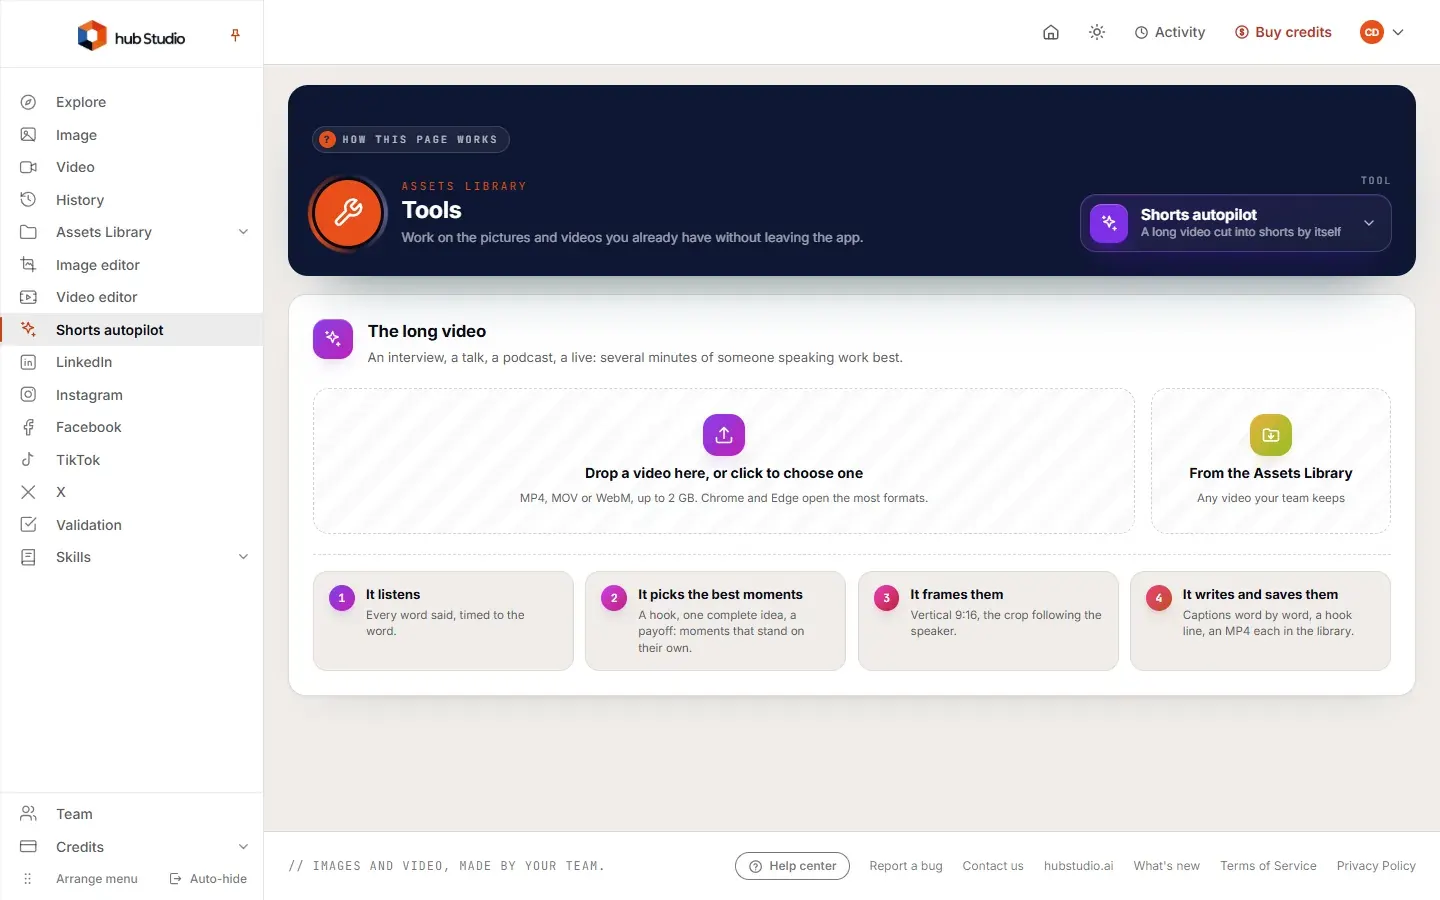
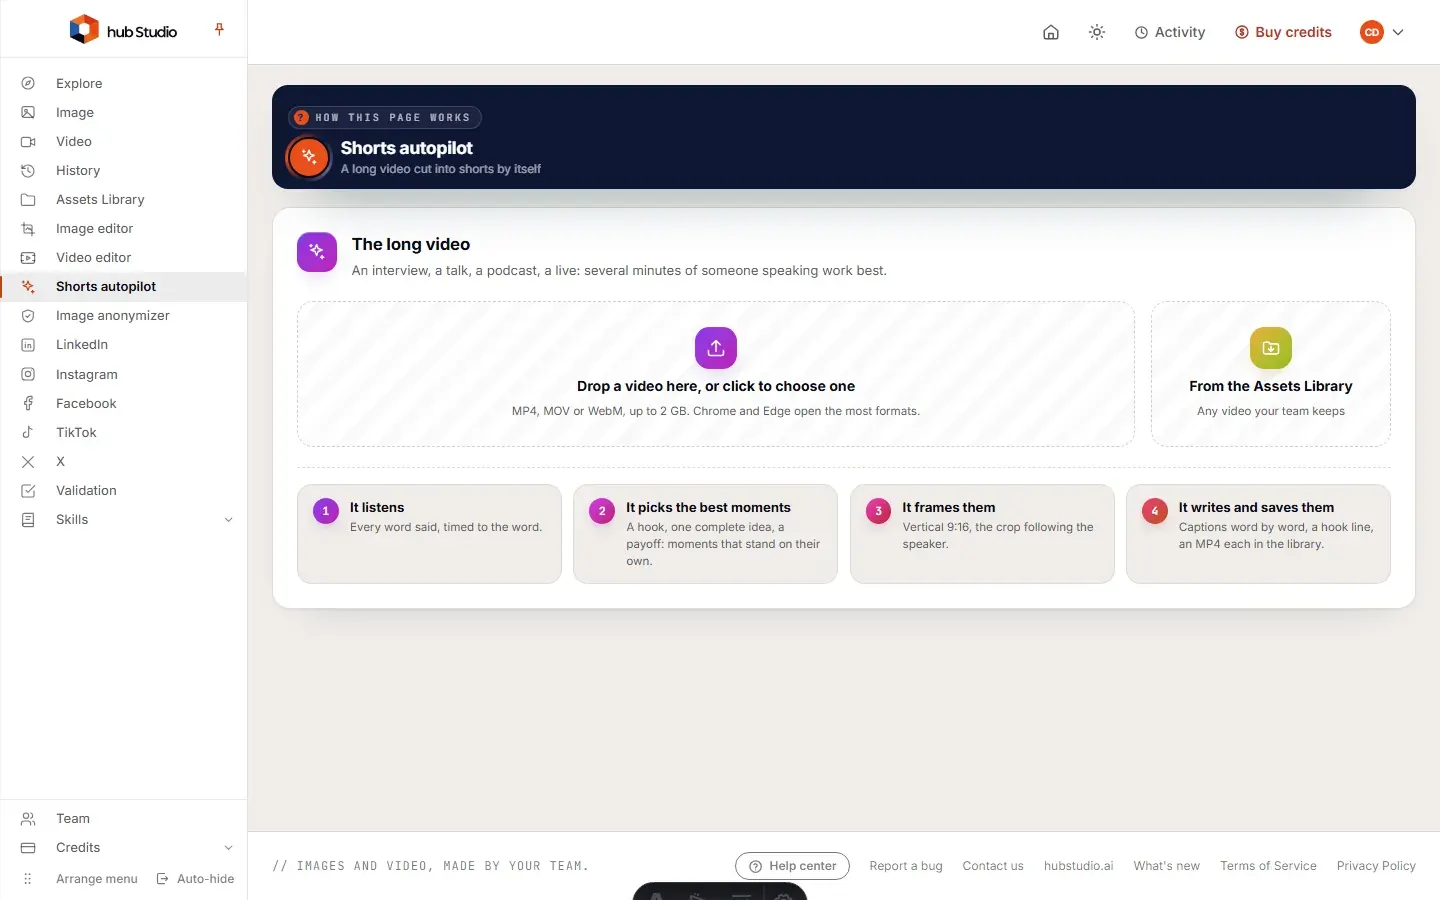
Help: the Image anonymizer is its own menu entry, every tool page is named after its tool (Assets Library, Getting started, index, Shorts autopilot), captures retaken.

diff --git a/src/content/help/assets-library.md b/src/content/help/assets-library.md
@@ -1,11 +1,11 @@
 ---
-title: "Assets Library and its Tools"
+title: "Assets Library and the tools"
 seoTitle: "Assets Library, Image editor, Video editor and Image anonymizer | hubStudio Help"
 description: "Every file of your team in one place, in folders: uploads, renders, edited pictures, edited videos and shorts. Find, tag, move and download them, then work on them with the Image editor (frame a picture for X, Instagram or LinkedIn, crop, adjust, apply a look, write, draw, place a logo), the Video editor (frame a video for Instagram, TikTok or Facebook, trims, speed, texts, captions word by word, music, a cover) and the Image anonymizer."
-excerpt: "Your team's files in folders, and three tools that run in your browser: the Image editor, the Video editor for Reels, TikToks and Facebook reels, and the Image anonymizer."
+excerpt: "Your team's files in folders, and three tools that run in your browser, each with its own entry in the menu: the Image editor, the Video editor for Reels, TikToks and Facebook reels, and the Image anonymizer."
 section: "library"
 order: 6
-updated: 2026-10-01
+updated: 2026-10-02
 appPaths: ["/files", "/files/tools/image-editor", "/files/tools/video-editor", "/files/tools/image-anonymizer"]
 audience: "Everyone except client logins"
 related: ["history", "shorts-autopilot", "create-an-image", "create-a-video", "linkedin", "instagram", "facebook", "tiktok", "x", "balance-and-payments"]
@@ -24,11 +24,10 @@ shots:
     clip: "the list with a video's Actions menu open"
     alt: "The Actions menu of a video in the Assets Library: View, Download, Edit video, Make shorts, Upload a new version, Tags, Rename and Move"
     captured: 2026-10-01
-  - file: "/Images/help/assets-library-tools.webp"
+  - file: "/Images/help/image-anonymizer-page.webp"
     route: "/files/tools/image-anonymizer"
-    clip: "the Tool switch open"
-    alt: "Tools, open on the Image anonymizer, with the Tool switch open on Pictures and videos: Image editor, Video editor, Shorts autopilot and Image anonymizer; in the menu, Image editor, Video editor and Shorts autopilot under the Assets Library"
-    captured: 2026-10-01
+    alt: "Image anonymizer lit in the menu, its page open: the box to drop a picture, the Output format list, and the three steps Drop a picture, See what it carries and Download the clean copy"
+    captured: 2026-10-02
   - file: "/Images/help/image-editor-social.webp"
     route: "/files/tools/image-editor"
     clip: "the Image editor, Social panel"
@@ -57,7 +56,7 @@ shots:
   - file: "/Images/help/video-editor-tools.webp"
     route: "/files/tools/video-editor"
     alt: "Video editor lit in the menu, its page open: the box to drop a video, From the Assets Library, and the three steps Open a video, Cut it for the network and Save it"
-    captured: 2026-10-01
+    captured: 2026-10-02
   - file: "/Images/help/video-editor-social.webp"
     route: "/files/tools/video-editor"
     clip: "the Video editor, Social panel"
@@ -86,12 +85,9 @@ shots:
 sources: ["src/lib/app.ts", "src/layouts/Layout.astro", "src/pages/files/index.astro", "src/scripts/filesPanel.ts", "src/pages/api/files/index.ts", "src/pages/api/files/[id].ts", "src/pages/api/files/folders/[id].ts", "src/pages/api/files/captions.ts", "src/lib/stored-files.ts", "src/lib/asset-tools.ts", "src/components/AssetToolsNav.astro", "src/pages/files/tools/index.astro", "src/pages/files/tools/image-editor.astro", "src/pages/files/tools/video-editor.astro", "src/pages/files/tools/image-anonymizer.astro", "src/scripts/imageEditor.ts", "src/scripts/imageEditorNetworks.ts", "src/scripts/imageEditorLauncher.ts", "src/scripts/videoEditor.ts", "src/scripts/videoEditorNetworks.ts", "src/scripts/videoEditorModel.ts", "src/scripts/videoEditorCaptions.ts", "src/scripts/videoEditorAudio.ts", "src/scripts/videoEditorExport.ts", "src/scripts/videoEditorLauncher.ts", "src/lib/video-captions.ts", "src/lib/social/limits.ts", "src/scripts/lightbox.ts", "src/scripts/historyPanel.ts", "src/scripts/imageGenerate.ts", "src/scripts/socialContent.ts", "public/apps/hubstudio/vocabulary.js"]
 ---
 
-The **Assets Library** holds every file of your team in one place, in folders: the pictures and clips you upload, the ones the studios render, the pictures and videos you edit, and the shorts [Shorts autopilot](/help/shorts-autopilot) makes. **Assets Library** in the menu opens on two entries:
+The **Assets Library** holds every file of your team in one place, in folders: the pictures and clips you upload, the ones the studios render, the pictures and videos you edit, and the shorts [Shorts autopilot](/help/shorts-autopilot) makes. **Assets Library** in the menu opens it.
 
-- **Assets**: the library itself.
-- **Tools**: the **Image anonymizer**, and the **Tool** switch to every tool that works on a file you already have.
-
-Right under it, the menu has three entries of their own for the tools you use most: the **Image editor**, the **Video editor** and **Shorts autopilot**. The editors are described below; Shorts autopilot has [its own article](/help/shorts-autopilot).
+The tools that work on a file you already have are features of their own, each with its own entry in the menu, right under the Assets Library: the **Image editor**, the **Video editor**, **Shorts autopilot** and the **Image anonymizer**. Each page is named after its tool in the dark band at the top. The editors and the Image anonymizer are described below; Shorts autopilot has [its own article](/help/shorts-autopilot).
 
 [History](/help/history) and the Assets Library show the same renders in two ways. History lists what the studios made, newest first, with the prompt, the engine and the cost of each piece. The library holds everything, renders and uploads alike, in the folders you choose.
 
@@ -146,15 +142,15 @@ On a video, the same menu reads **Edit video** where a picture reads **Edit imag
 
 Keeping files has a small daily rent, and downloading one has a small transfer charge, both charged against the team balance, exactly as described in [History](/help/history#what-storing-files-costs). Delete what you no longer need and the rent goes down from the next day. When the balance is empty, new files can't be uploaded until you top up.
 
-## Tools
+## What the tools cost
 
-**Tools** opens on the Image anonymizer. The **Tool** switch at the top right of the dark band lists four tools under **Pictures and videos**: the **Image editor**, the **Video editor**, **Shorts autopilot** and the **Image anonymizer**. The first three are also entries of the menu, and open the same pages.
+The Image editor, the Video editor and the Image anonymizer run in your own browser and are free: their band says **Runs in your browser · Free**. Two things are paid, each with its price shown before you start: the fast captions of the Video editor, and the run of [Shorts autopilot](/help/shorts-autopilot#what-it-costs).
 
-The Image editor, the Video editor and the Image anonymizer run in your own browser and are free: the band says **Runs in your browser · Free**. Two things are paid, each with its price shown before you start: the fast captions of the Video editor, and the run of [Shorts autopilot](/help/shorts-autopilot#what-it-costs).
+## The Image anonymizer
 
-![Tools, open on the Image anonymizer, with the Tool switch open on Pictures and videos: Image editor, Video editor, Shorts autopilot and Image anonymizer; in the menu, Image editor, Video editor and Shorts autopilot under the Assets Library](/Images/help/assets-library-tools.webp)
+**Image anonymizer** in the menu opens it.
 
-### The Image anonymizer
+![Image anonymizer lit in the menu, its page open: the box to drop a picture, the Output format list, and the three steps Drop a picture, See what it carries and Download the clean copy](/Images/help/image-anonymizer-page.webp)
 
 Drop a picture on the box, or click it to choose one. The tool first lists what is hidden inside the file: camera data, the place it was taken, editing records, content credentials and the tags AI engines write into their pictures. It then rebuilds the picture pixel by pixel into a new file that carries none of it, under a neutral file name.
 
@@ -172,7 +168,7 @@ The editor opens from wherever the picture is:
 
 | From | How |
 |---|---|
-| **Image editor** in the menu | Drop a picture on **Drop a picture here, or click to choose one**, or click **From the Assets Library** and pick one. The **Tool** switch of the Assets Library's **Tools** opens the same page. |
+| **Image editor** in the menu | Drop a picture on **Drop a picture here, or click to choose one**, or click **From the Assets Library** and pick one. |
 | The Assets Library | **Edit image** in a picture's **Actions** menu, or **Edit** in the full-size viewer. |
 | [History](/help/history#edit-a-picture-or-a-video) | **Edit** on a picture's card, or in the full-size viewer. |
 | The image studio | **Edit** on a ready picture, or in the full-size viewer. See [Create an image](/help/create-an-image#edit-a-picture). |
@@ -311,7 +307,7 @@ The Video editor turns a clip into an Instagram Reel, a TikTok or a Facebook ree
 
 | From | How |
 |---|---|
-| **Video editor** in the menu | Drop a video on **Drop a video here, or click to choose one**, or click **From the Assets Library** and pick one. The **Tool** switch of the Assets Library's **Tools** opens the same page. |
+| **Video editor** in the menu | Drop a video on **Drop a video here, or click to choose one**, or click **From the Assets Library** and pick one. |
 | The Assets Library | **Edit video** in a video's **Actions** menu, or **Edit** in the full-size viewer. |
 | [History](/help/history#edit-a-picture-or-a-video) | **Edit** on a video's card, or in the full-size viewer. |
 | A post | The pencil on the clip of a video post. On an Instagram, TikTok or Facebook post, the editor opens on its **Social** panel, set to that network. See [Edit the clip of a post](#edit-the-clip-of-a-post). |

diff --git a/src/content/help/getting-started.md b/src/content/help/getting-started.md
@@ -5,7 +5,7 @@ description: "What hubStudio is, how to create your account alone or with a team
 excerpt: "Create your account, find your way around the menu and render your first image in a few minutes."
 section: "getting-started"
 order: 1
-updated: 2026-10-01
+updated: 2026-10-02
 appPaths: ["/signup", "/login", "/explore"]
 audience: "Everyone"
 related: ["explore", "create-an-image", "assets-library", "shorts-autopilot", "linkedin", "validation", "balance-and-payments", "your-team", "account-and-sign-in", "client-space"]
@@ -13,8 +13,8 @@ shots:
   - file: "/Images/help/getting-started-menu.webp"
     route: "/explore"
     clip: "#side-nav"
-    alt: "The menu on the left: Explore, Image, Video, History, Assets Library, Image editor, Video editor, Shorts autopilot, the five networks, Validation and Skills, with Team and Credits at the foot"
-    captured: 2026-10-01
+    alt: "The menu on the left: Explore, Image, Video, History, Assets Library, Image editor, Video editor, Shorts autopilot, Image anonymizer, the five networks, Validation and Skills, with Team and Credits at the foot"
+    captured: 2026-10-02
 sources: ["src/lib/app.ts", "src/layouts/Layout.astro", "src/lib/auth.ts", "src/middleware.ts", "src/pages/signup.astro", "src/lib/signup.ts", "src/pages/login.astro", "src/lib/mfa.ts", "src/pages/invite/[token].astro", "src/pages/explore.astro"]
 ---
 
@@ -62,10 +62,11 @@ The menu on the left holds the studio first, then the networks and Validation, t
 | **Image** | The image studio: text to image, image editing, upscaling. See [Create an image](/help/create-an-image). |
 | **Video** | The video studio. See [Create a video](/help/create-a-video). |
 | **History** | Everything you and your team made. See [History](/help/history). |
-| **Assets Library** | **Assets**: every file of your team, uploads and renders, in folders. **Tools**: the Image anonymizer, and a switch to every tool. See [Assets Library and its Tools](/help/assets-library). |
+| **Assets Library** | Every file of your team, uploads and renders, in folders. See [Assets Library and the tools](/help/assets-library). |
 | **Image editor** | Frame a picture for X, Instagram or LinkedIn, write, draw, place a logo. See [The Image editor](/help/assets-library#the-image-editor). |
 | **Video editor** | Frame a video for Instagram, TikTok or Facebook, trim it, add texts, captions word by word and music. See [The Video editor](/help/assets-library#the-video-editor). |
 | **Shorts autopilot** | A long video cut into vertical shorts by itself: the best moments, framed, captioned and saved. See [Shorts autopilot](/help/shorts-autopilot). |
+| **Image anonymizer** | See what is hidden inside a picture (camera, place, AI tags), then download a clean copy. See [The Image anonymizer](/help/assets-library#the-image-anonymizer). |
 | **LinkedIn**, **Instagram**, **Facebook**, **TikTok** and **X** | One module per network: write a post, add its picture or video, then schedule it or publish it on the accounts you connected. See [LinkedIn](/help/linkedin), [Instagram](/help/instagram), [Facebook](/help/facebook), [TikTok](/help/tiktok) and [X](/help/x). |
 | **Validation** | The work waiting for someone's approval, and what you sent for approval. See [Validation](/help/validation). |
 | **Skills** | **My skills**, **Team skills** (administrators only) and the **Catalog**. See [Skills](/help/skills). |
@@ -75,7 +76,7 @@ The menu on the left holds the studio first, then the networks and Validation, t
 
 A client login sees a much shorter menu: **Client space** and **Validation**. See [Client space](/help/client-space).
 
-![The menu on the left: Explore, Image, Video, History, Assets Library, Image editor, Video editor, Shorts autopilot, the five networks, Validation and Skills, with Team and Credits at the foot](/Images/help/getting-started-menu.webp)
+![The menu on the left: Explore, Image, Video, History, Assets Library, Image editor, Video editor, Shorts autopilot, Image anonymizer, the five networks, Validation and Skills, with Team and Credits at the foot](/Images/help/getting-started-menu.webp)
 
 The bar at the top of every page holds:
 

diff --git a/src/content/help/index.md b/src/content/help/index.md
@@ -5,7 +5,7 @@ description: "Guides for hubStudio: getting started, the Explore gallery, the im
 excerpt: "Everything you need to make images, videos and posts with hubStudio, alone or with your team, and to deliver them to your clients."
 section: "home"
 order: 0
-updated: 2026-10-01
+updated: 2026-10-02
 appPaths: []
 audience: "Everyone"
 related: []
@@ -25,7 +25,7 @@ hubStudio makes images and videos with the AI engines of several makers, turns t
 3. [Create an image](/help/create-an-image): text to image, editing and upscaling, choosing an engine, the options, the price line, Improve with AI, several images per run, and Made for.
 4. [Create a video](/help/create-a-video): text to video, image to video, references, duration, resolution or mode, sound, the price per second, rendering time, and Made for.
 5. [History](/help/history): finding, opening, downloading, editing, reusing a prompt, saying which client a piece was made for, deleting, and what storing files costs.
-6. [Assets Library and its Tools](/help/assets-library): every file of the team in folders, finding, tagging and moving them, the Image editor (framing for X, Instagram or LinkedIn, crop, adjust, looks, text, arrows and shapes, a logo, saving a copy or a new version), the Video editor (framing for Instagram, TikTok or Facebook with what each network covers and its checks, trims, speed, texts, captions word by word, music, a cover) and the Image anonymizer.
+6. [Assets Library and the tools](/help/assets-library): every file of the team in folders, finding, tagging and moving them, the Image editor (framing for X, Instagram or LinkedIn, crop, adjust, looks, text, arrows and shapes, a logo, saving a copy or a new version), the Video editor (framing for Instagram, TikTok or Facebook with what each network covers and its checks, trims, speed, texts, captions word by word, music, a cover) and the Image anonymizer.
 7. [Shorts autopilot](/help/shorts-autopilot): a long video cut into vertical shorts by itself, for YouTube Shorts, TikTok and Instagram Reels: the choices, the run, the shorts it saves and what it costs.
 8. [Skills](/help/skills): the instructions that shape Improve with AI and the drafts of your posts, the Catalog, your own skills and team skills.
 

diff --git a/src/content/help/shorts-autopilot.md b/src/content/help/shorts-autopilot.md
@@ -5,7 +5,7 @@ description: "Shorts autopilot turns a long video into vertical 9:16 shorts for 
 excerpt: "Give it an interview, a talk or a podcast: it picks the moments that work on their own and saves each one as a vertical short, captioned and ready to post."
 section: "library"
 order: 7
-updated: 2026-10-01
+updated: 2026-10-02
 appPaths: ["/files/tools/shorts"]
 audience: "Creators and admins"
 related: ["assets-library", "tiktok", "instagram", "history", "balance-and-payments"]
@@ -13,7 +13,7 @@ shots:
   - file: "/Images/help/shorts-autopilot-page.webp"
     route: "/files/tools/shorts"
     alt: "Shorts autopilot in the menu, its page open on The long video: the box to drop a video, From the Assets Library, and the four steps It listens, It picks the best moments, It frames them and It writes and saves them"
-    captured: 2026-10-01
+    captured: 2026-10-02
   - file: "/Images/help/shorts-autopilot-settings.webp"
     route: "/files/tools/shorts"
     clip: "The shorts card, once a video is picked"
@@ -28,10 +28,7 @@ It works best on several minutes of someone speaking. It picks its moments from 
 
 ## Open it
 
-Shorts autopilot has its own entry in the menu, under the Assets Library and the two editors. You can also reach it:
-
-- from the **Actions** menu of a video in the Assets Library: **Make shorts** opens the page with that video already picked;
-- from the **Tool** switch of the Assets Library's **Tools**, under **Pictures and videos**.
+Shorts autopilot has its own entry in the menu, under the Assets Library and the two editors. You can also reach it from the **Actions** menu of a video in the Assets Library: **Make shorts** opens the page with that video already picked.
 
 ![Shorts autopilot in the menu, its page open on The long video: the box to drop a video, From the Assets Library, and the four steps It listens, It picks the best moments, It frames them and It writes and saves them](/Images/help/shorts-autopilot-page.webp)
 
